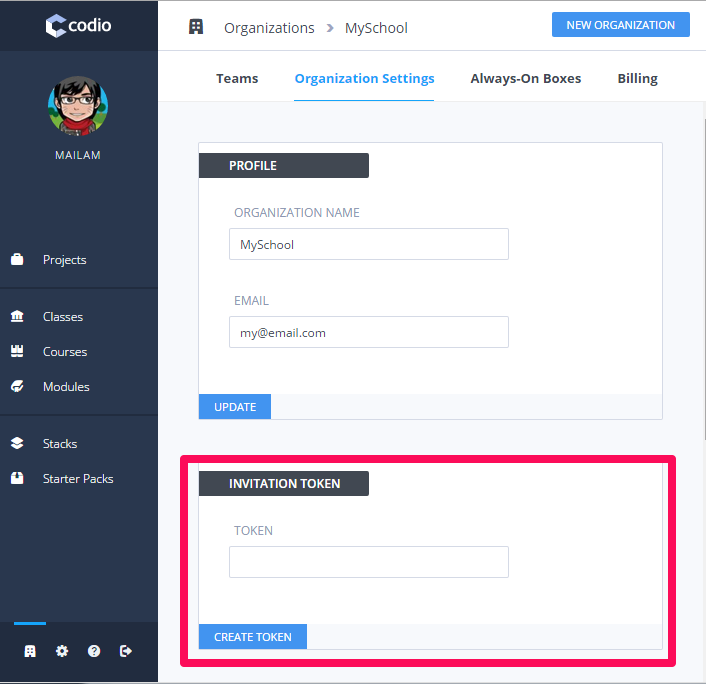
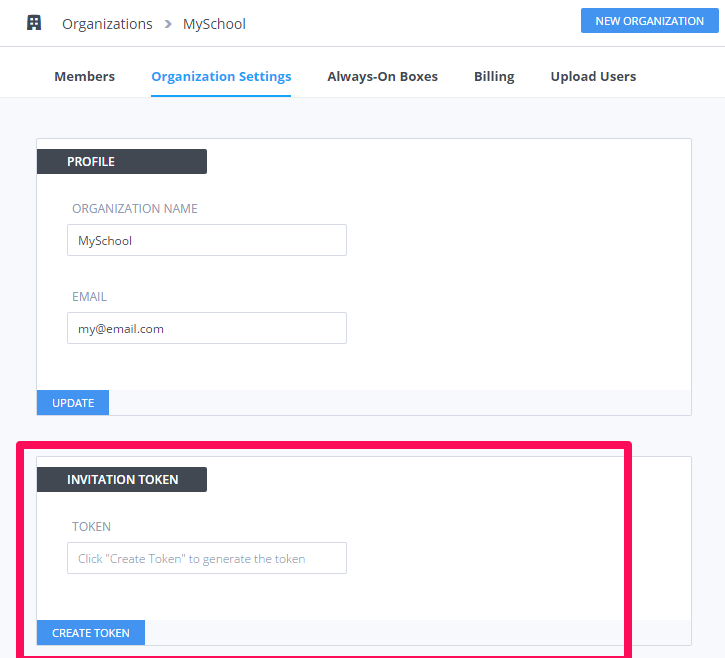
update teams to members, add upload users, update screenshots

diff --git a/source/docs/quickstart/edusetup.html.md b/source/docs/quickstart/edusetup.html.md
@@ -41,20 +41,30 @@ If you already have students and teachers who have created Codio accounts, you s
 
 Alternatively 
 
-- For students, click on 'All Members' and then locate the Student by name or user id.
-- For teachers, do the same, but we will shortly be adding a special Teachers team.
+- For students, click on 'Students' group and then locate the Student by name or user id.
+- For teachers, do the same, but select the 'Teachers' group.
 
-### CSV Upload
-We will soon be adding the ability to upload your own CSV files to create student accounts and also to create classes. Most schools have MIS systems that allow this data to be easily exported.
+### Upload Users
+You can also upload your own CSV files to create student and/or teacher accounts and also to create classes. Most schools have MIS systems that allow this data to be easily exported.
 
-In the short term you can email us your CSV file and we will process these for you. Please send this to help@codio.com.
+Go to the `Upload Users` tab and select the `Begin New Upload` button
 
-The file should be a CSV file with the following fields present : email (required), full name, user name, class.
+![Upload Users](/img/docs/organisation_upload.png)
 
-Only the email field is required. If your school uses internal user names for students then we advise using this. You can also specify the class that a student belongs to.
+The file should be a CSV file that can contain the following details: email (required), name, username, class.
+
+- If your CSV file includes Column names in the first row (as defined above), the order is not important but if your file does not contain the Column names in the first row the order of the content is important.
+- If you specify usernames in the upload file for your students/teachers and wish to minimize the chances of conflicts with existing user accounts, enable the `Prefix Usernames` option and you can then enter a short value. The username will be prefixed with this value.
+- If your CSV file includes a `class`, this will be created for you if it does not already exist. If the class already exists (please note case is important), the students/teachers will be added to that class for you.
+- Select the group you wish to add these users to.
+
+When you then `Upload & Preview` you will be shown a preview of the details to be uploaded where you can then edit/remove or even add new students/teacher to the list prior to completing the upload and they will receive an email with instructions on how to proceed. If there are any problems identified these will be shown to you.
+
+As the students/teachers complete the process, they will then be added to your group (and class if included in the csv file).
+
 
 ## Teacher Support Functionality
-In June 2015, we will be releasing a comprehensive set of features that allow teachers to fully manage their student classes and
+In July 2015, we will be releasing a comprehensive set of features that allow teachers to fully manage their student classes and
 
 - access student code
 - mark assessment questions within the Modules

diff --git a/source/docs/dashboard/organizations/adding-members.html.md b/source/docs/dashboard/organizations/adding-members.html.md
@@ -8,8 +8,8 @@ To manually add Codio users to your organization
 
 1. Open the Organizations up (click on the icon bottom left).
 1. Select your Organization from the list (there is probably only one there).
-1. `Teams` should already be selected above the list.
-1. Click on the appropriate Permanent Teams available for the user you are adding.
+1. `Members` should already be selected above the list.
+1. Click on the appropriate Permanent Member Group available for the user you are adding.
 1. Add the Codio user (you can search by Codio user name or full name, if they entered one).
 
 
@@ -18,3 +18,21 @@ Alternatively, go to `Organisation Settings` area and create an invitation token
 ![Organisations Token](/img/docs/organisations_token.png)
 
 Send the generated link out to all users who you wish to include in your organisation and they will be automatically added. If they do not already have a Codio account, they will be taken through the sign up process and then added to your organisation.
+
+### Upload Users
+You can also upload your own CSV files to create user accounts and add users to your custom Members as well as to create classes. 
+
+Go to the `Upload Users` tab and select the `Begin New Upload` button
+
+![Upload Users](/img/docs/organisation_upload.png)
+
+The file should be a CSV file that can contain the following details: email (required), name, username, class.
+
+- If your CSV file includes Column names in the first row (as defined above), the order is not important but if your file does not contain the Column names in the first row the order of the content is important. 
+- If you specify usernames in the upload file for your users and wish to minimize the chances of conflicts with existing user accounts, enable the `Prefix Usernames` option and you can then enter a short value. The username will be prefixed with this value.
+- If your CSV file includes a `class`, this will be created for you if it does not already exist. If the class already exists (please note case is important), the users will be added to that class for you.
+- Select the group you wish to add these users to.
+
+When you then `Upload & Preview` you will be shown a preview of the details to be uploaded where you can then edit/remove or even add new users to the list prior to completing the upload and they will receive an email with instructions on how to proceed. If there are any problems identified these will be shown to you.
+
+As the users complete the process, they will then be added to your Member (and class if included in the csv file).

diff --git a/source/docs/dashboard/organizations/overview.html.md b/source/docs/dashboard/organizations/overview.html.md
@@ -4,14 +4,17 @@ class_name: docs
 full_width: true
 ---
 
-If you are working in teams or are a school, college or university, we recommend you create an Organization. You can request a trial from the [Organisations](/docs/dashboard/organizations/create/) page. 
+If you are working in grouls or are a school, college or university, we recommend you create an Organization. You can request a trial from the [Organisations](/docs/dashboard/organizations/create/) page. 
 
 Currently, the main advantage of an Organization account is 
 
 - Access to [Classes](/docs/dashboard/classes/)
 - Teachers and Students can create private Projects, Stacks, Starter Packs and Courses
+- Generate an Invitation Token to send out to your users for then to sign up and automatically join your organisation
+- Upload a CSV file of your users for them to receive an email and be able to sign up, join your organisation and also automatically assign students into [Classes](/docs/dashboard/classes/)
 
-We will be adding a great deal of functionality here to support easy signup, student driven assignment to classes, collaboration and other advanced features.
+
+We will be adding futher functionality here to support student driven assignment to classes, collaboration and other advanced features.
 
 ##Subscriptions and Trials
 We offer very substantial Organization discounts to schools and universities. We also offer Codio for free in certain special situations.

diff --git a/source/docs/dashboard/courses/course-create.html.md b/source/docs/dashboard/courses/course-create.html.md
@@ -20,4 +20,4 @@ You should also add tags that identify the technologies used. An image is also s
 This determines whether your Course and its constituent Modules are publicly available to all Codio users or should remain private to you and/or your [Organization](/docs/dashboard/organizations/) (if you are a member of an Organization). Private Courses require a paid subscription.
 
 ##Owner
-By default, you are the owner of the Course you create. If you select an Organization from the dropdown, then any Owner team members of that Organization are able to adminster the Course and all Organization members will be able to see it in the listing, even if the Course is marked as private.
+By default, you are the owner of the Course you create. If you select an Organization from the dropdown, then any Owner group members of that Organization are able to adminster the Course and all Organization members will be able to see it in the listing, even if the Course is marked as private.

diff --git a/source/docs/dashboard/modules/module-create.html.md b/source/docs/dashboard/modules/module-create.html.md
@@ -21,5 +21,5 @@ You should also add tags that identify the technologies used. An image is also s
 This determines whether your Module and its constituent Units are publicly available to all Codio users or should remain private to you and/or your [Organization](/docs/dashboard/organizations/) (if you are a member of an Organization). Private Modules require a paid subscription.
 
 ##Owner
-By default, you are the owner of the Module you create. If you select an Organization from the dropdown, then any Owner team members of that Organization are able to adminster the Module and all Organization members will be able to see it in the listing, even if the Module is marked as private.
+By default, you are the owner of the Module you create. If you select an Organization from the dropdown, then any Owner group members of that Organization are able to adminster the Module and all Organization members will be able to see it in the listing, even if the Module is marked as private.
 

diff --git a/source/docs/dashboard/classes/overview.html.md b/source/docs/dashboard/classes/overview.html.md
@@ -8,7 +8,7 @@ The Classes menu item can be found in the left side of the Codio dashboard.
 
 To access Classes, you will need to have an [Organization](/docs/dashboard/organizations/) account. [Click here](/docs/quickstart/education) for information about a full-featured free trial including private Projects, Stacks, Starter Packs and Courses.
 
-Classes can only be created by members of the Owners team. Teams are managed in the [Organization](/docs/dashboard/organizations/) section.
+Classes can only be created by members of the Owners group. Groups are managed in the [Organization](/docs/dashboard/organizations/) section.
 
 - A class is a collection of students (Codio users).
 - A class is associated with [Modules](/docs/dashboard/modules/). 

diff --git a/source/docs/dashboard/organizations/members.html.md b/source/docs/dashboard/organizations/members.html.md
@@ -1,0 +1,22 @@
+---
+title: Members
+class_name: docs
+full_width: true
+---
+
+Members is a collection of Codio users within your Organization.
+
+As soon as you add a user to a member group they will automatically be added to your Organization and will also appear in the `All Members` list.
+
+The number of members in each group is displayed in the box.
+
+##Add
+Press the Create Member Group button to add your new group. Once created, the number of group members is shown in the group button.
+
+##Edit
+You can rename a member group or edit its description by clicking on the member group and then selecting the Edit button.
+
+##Delete
+You can delete a member group by pressing the 'Delete' button when in Edit mode.
+
+

diff --git a/source/docs/dashboard/organizations/moving.html.md b/source/docs/dashboard/organizations/moving.html.md
@@ -7,5 +7,5 @@ full_width: true
 Users with a personal Codio subscription can be brought into an Organizational account as follows
 
 - Cancel the personal subscriptions. This will temporarily disable any private Projects.
-- Create your Organization in Codio and then add the others to the 'All Members' team. At this point, any disabled private projects will be re-enabled as active private Projects
+- Create your Organization in Codio and then add the others to the 'All Members' group. At this point, any disabled private projects will be re-enabled as active private Projects
 

diff --git a/source/docs/dashboard/organizations/index.html.md b/source/docs/dashboard/organizations/index.html.md
@@ -4,7 +4,7 @@ class_name: docs
 full_width: true
 ---
 
-Organizations are useful for centralized billing as well as being able to define groups of users into Teams.
+Organizations are useful for centralized billing as well as being able to define groups of users into Groups.
 
 [Click here](/docs/dashboard/organizations/overview/) to start reading and for full details.
 
